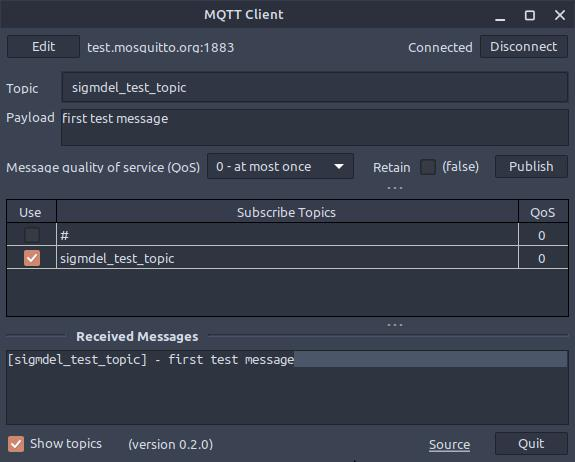
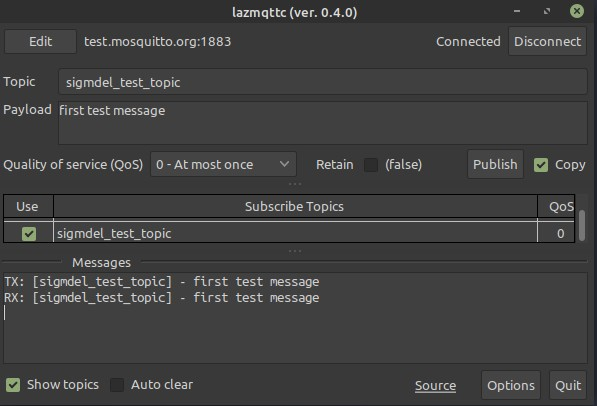
Bumped up to version 0.4.0

Changed region(s): [[0.0, 0.0, 1.0, 1.0]]

diff --git a/README.md b/README.md
@@ -1,4 +1,5 @@
 # lazmqttc: Lazarus MQTT Client
+**Version 0.4.0**
 
 A basic MQTT client written in Free Pascal/Lazarus that can publish messages to a broker while being subscribed to one or more topics with the same broker. It uses the [Eclipse mosquitto](https://mosquitto.org/) library to communicate with the MQTT broker.
 
@@ -14,12 +15,16 @@ The screen capture shows the message sent to the public `test.moquitto.org` brok
 - [2. Compiling](#2-compiling)
 - [3. Testing](#3-testing)
 - [4. Installation](#4-installation)
-- [5. Broker Definitions](#5-broker-definitions)
-    - [5.1. Security Warning](#51-security-warning)
-- [6. National Language Support](#6-national-language-support)
-- [7. Improvements and Development](#7-improvements-and-development)
-- [8. Acknowledgment](#8-acknowledgment)
-- [9. Licence](#9-licence)
+- [5. Program Options](#5-program-options)
+    - [5.1. Automatic Connection Options](#51-automatic-connection-options)
+    - [5.2. Messages Options](#52-messages-options)
+- [6. Option Overrides at Runtime](#6-option-overrides-at-runtime)
+- [7. Broker Definitions](#7-broker-definitions)
+    - [7.1. Security Warning](#71-security-warning)
+- [8. National Language Support](#8-national-language-support)
+- [9. Improvements and Development](#9-improvements-and-development)
+- [10. Acknowledgment](#10-acknowledgment)
+- [11. Licence](#11-licence)
 
 <!-- /TOC -->
 
@@ -80,7 +85,7 @@ Ultimately, if a mosquitto MQTT broker is to be run on the system, it may make m
 
 The repository is self-contained (except for the mosquitto library of course), so creating this tool should be straightforward. Clone the repository, start the Lazarus IDE, load the project, and compile. 
 
-The project uses a custom component, a "virtual grid" to display subscribed topics. This component is so specialized that there is no point in adding it to the IDE component palette. Instead the component is created at run-time in the `FormCreate` methods of the main and broker edit forms. Consequently, it is normal to not find the component in the form designer.
+The project uses a custom component, a "virtual grid" to display subscribed topics. This component is so specialized that there is no point in adding it to the IDE component palette. Instead the component is created at runtime in the `FormCreate` methods of the main and broker edit forms. Consequently, the component is not visible in the form designer.
 
 When compiling a final version, it would be advisable to heed the following advice.
 
@@ -92,9 +97,9 @@ When compiling a final version, it would be advisable to heed the following advi
 
 ## 3. Testing
 
-The project was built with Lazarus 2.0.12 (Free Pascall 3.2.0) on a Mint 20.1 system with version 1.6.9-1 of the mosquitto libraries. 
+The project was built with Lazarus 2.2.0RC2 (Free Pascal 3.2.3) on a Mint 20.1 system with version 1.6.9-1 of the mosquitto libraries. 
 
-A cursory test was done with the same compiler in Windows 10. 
+A cursory test was done with Lazarus 2.0.12 (Free Pascal 3.2.0) in Windows 10. 
 
 There are unit tests of the `TBroker` class, but they may be out of date.
 
@@ -106,61 +111,43 @@ The [installation](installation/) directory contains a `lazmqttc.desktop` file a
 
 Details about installation of an application in Windows 10 are unfortunately not provided.
 
-## 5. Broker Definitions 
+## 5. Program Options
+
+Starting with version 0.4.0, program options can be changed at runtime. Click on the `Options` button at the bottom right of the application window to enter the options editor.
+
+### 5.1. Automatic Connection Options
+
+If automatic connection is enabled, then an attempt will be made to open a connection to the MQTT broker if one is not already established when a message is published. When such an attempt is made, the program will wait for the specified number of seconds and then publish the message if the connection has been established. Even if the program reports that it was unable to establish a connection, it is still possible that the broker will respond later. 
+
+The public MQTT server at `mosquitto.org` may very well take more than the default 5 seconds to respond to an initial connection request. It was necessary to press the `Publish` button again once the connection was made to get the response shown in the screenshot at the top of this page.
+
+### 5.2. Messages Options
+
+If `Auto clear previous messages on publishing a message` is checked then the `Messages` control is cleared of old messages when a new message is published to the broker.
+
+It is possible to define the maximum number of messages that can be shown in the `Messages` control. Older messages are removed as new messages come in if necessary.
+
+If `Show published messages` is checked then published messages are added in the control no matter if the client is subscribed to these messages or not. In the screenshot the 
+
+If `Show message topics` is not checked then only message payloads are shown in the `Messages` control. When shown, topics are enclosed in square brackets [&lt;*topic*&gt;].
+
+The `Received message header` and `Published message header` are used to define prefixes that identify which messages are sent and which are received.
+
+## 6. Option Overrides at Runtime 
+
+Published messages are only shown in `Messages` if `Show` is checked no matter the value of `Show published messages` option. Changes to `Show` have no effect on the value of the option. When the program is started or when Options are changed then `Show` will be set to the same value as the  `Show published messages` option.
+
+`Show topics` and `Auto clear` operate in the same fashion in relation to the `Show message topics` and ` `Auto clear previous messages on publishing a message` options.
+
+
+## 7. Broker Definitions 
 
 MQTT broker definitions can be retrieved, saved, edited or created by clicking on the **` Edit `** button at the top of the main program window. Editing the current MQTT definition is the only way to add, remove or change the list of subscribed topics. 
 
-In Linux, broker definition files are saved in the `~/.config/sigmdel/lazmqttc` where `~` is the user home directory. So fully expanded the directory is
-<pre>  /home/&lt;<i>user</i>&gt;/.config/sigmdel/lazmqttc</pre>
-
-In Windows 10, the files are saved in the local `AppData` folder :
-<pre>  C:\Users\&lt;<i>user</i>&gt;\AppData\Local\sigmdel\lazmqttc</pre>
-
-MQTT broker definitions are JSON formatted text files. As an example, here is a definition used with an MQTT broker running on a Raspberry Pi also hosting a [Domoticz](https://domoticz.com/) home automation server. By default, the client will subscribe to the `stat/+/STATUS5` topic only when it connects with the broker. When the default publish message is sent to the broker, all subscribed [Tasmota](https://github.com/tasmota) devices respond by sending a "status 5" message. This can be useful because that will display the IP address of each device.
-
-<pre>
-{
-  "Host" : "192.168.1.22",
-  "Port" : 1883,
-  "User" : "",
-  "Password" : "",
-  "SSL" : false,
-  "SSLCert" : "",
-  "KeepAlives" : 60,
-  "ReconnectDelay" : 10,
-  "ReconnectBackoff" : true,
-  "AutoReconnect" : true,
-  "PubTopic" : "cmnd/tasmotas/status",
-  "PubPayload" : "5",
-  "PubQoS" : 0,
-  "PubRetain" : false,
-  "SubTopics" : [
-    {
-      "Topic" : "stat/+/STATUS5",
-      "QoS" : 0,
-      "Use" : true
-    },
-    {
-      "Topic" : "tele/#",
-      "QoS" : 0,
-      "Use" : false
-    },
-    {
-      "Topic" : "domoticz/in",
-      "QoS" : 0,
-      "Use" : false
-    },
-    {
-      "Topic" : "domoticz/out",
-      "QoS" : 0,
-      "Use" : false
-    }
-  ]
-}   
-</pre>       
+MQTT broker definitions are JSON formatted text files. The [res](res/) directory contains examples of broker definition files.
 
 
-### 5.1. Security Warning
+### 7.1. Security Warning
 
 Prior to version 3.3, the MQTT broker passwords were stored in plain text in the broker definitions file. **Do not save MQTT broker passwords in the broker definition screen** in these older versions. 
 
@@ -168,7 +155,7 @@ A quick fix was added in version 3.3 so that an encrypted password will be saved
 
 Note that the MQTT user and password are transmitted in plain text over an HTTP connection, so truly secure handling of the MQTT password will have to wait until communication with the broker using the HTTPS protocol is implemented.
 
-## 6. National Language Support
+## 8. National Language Support
 
 The `languages` directory contains national language translations of the literal strings found in the program. This directory should be copied alongside the executable file.
 
@@ -176,29 +163,13 @@ Only a single translation into French is provided: `lazmqttc.fr.po`. However the
 
 The choice of language is done automatically based on the system locale when the program starts up. There is no provision for choosing the language at run-time. Those that prefer to use the English language version even if a translation into the national language exists can achieve their goal by renaming or erasing the `languages` directory.
 
-## 7. Improvements and Development
+## 9. Improvements and Development
 
 Initially this utility was quickly cobbled to fulfill an immediate need: wrangling a number of IoT devices running Tasmota firmware mostly to get their IP address. Since then, an attempt has been made to combine the important features of the mosquitto "pub and sub clients" into a single application. At the same time, some attention has been given to cleaning up the code, but improvements are certainly possible. All suggestions welcome.
 
 There are aspects of the MQTT protocol that are not implemented including the Last Will and Testament feature and clean sessions.
 
-Version 0.3.4 brings two changes:
-  1. If the client is not connected to the MQTT broker when the ```Publish``` button is pressed, then it will attempt to connect. 
-  2. Published messages can now be added to list of ```Messages``` window which now looks more like a "chat". The published messages have a "TX: " prefix, received messages have a "RX: " prefix. This behaviour is controlled by a ```Copy``` checkbox beside the ```Publish``` button.
-
-Connection to a broker is asynchronous. If an attempt to connect to a broker is made after pushing on the publish button, then the application will wait at most 5 seconds for the connection. The automation connection, the connection delay, as well as the message prefixes are  currently defined as constants at the start of the implementation of ```main.pas```.
-
-```  
-// Move these to application options
-  SubscribedMemoSize = 2500;    // maximum number of lines in subscribed memo
-  AutoConnectOnPublish = true;  // connect to broker if needed when Publish is pressed
-  AutoConnectDelay = 5000;      // five seconds
-  PubMsgHeader = 'TX: ';        // start of published messages in Messages box
-  RcvMsgHeader = 'RX: ';        // start of received messages in Messages box           
-```  
-The next improvement should be to add these options to an application configuration file and to add a form to edit them.
-
-## 8. Acknowledgment
+## 10. Acknowledgment
 
 Obviously, this utility would not have been possible without 
 
@@ -206,11 +177,11 @@ Obviously, this utility would not have been possible without
 - the [Eclipse Mosquitto](https://github.com/eclipse/mosquitto) project and 
 - the [mosquitto-p](https://github.com/chainq/mosquitto-p) project by Károly Balogh (chainq).
 
-Not quite as obvious, the JSON data viewer by Michael Van Canneyt (named `jsonviewer`) provided the code for saving and loading JSON broker definition files. The utility can be found in the `tools` directory in the Lazarus source. The full path is `/usr/share/lazarus/2.0.12/tools/jsonviewer` in a default installation of Lazarus in Mint 20.1.
+Not quite as obvious, the JSON data viewer by Michael Van Canneyt (named `jsonviewer`) provided the code for saving and loading the JSON broker definition and the JSON program option files. The utility can be found in the `tools` directory in the Lazarus source. The full path is `/usr/share/lazarus/2.0.12/tools/jsonviewer` in a default installation of Lazarus in Mint 20.1.
 
 The broker password encryption using the <span class="tm">Free Pascal</span> Blowfish unit is based on a blog post by leledumbo [Blowfish, the cryptography unit by leledumbo](http://pascalgeek.blogspot.com/2012/06/encryption-decryption-and-asynchronous.html) (June 24, 2012).
 
-## 9. Licence
+## 11. Licence
 
 The [Eclipse Mosquitto](https://github.com/eclipse/mosquitto) project is dual-licensed under the Eclipse Public License 2.0 and the
 Eclipse Distribution License 1.0.

diff --git a/CHANGELOG.md b/CHANGELOG.md
@@ -1,14 +1,21 @@
 
 # Change Log
 
-## 0.3.4 (current)
+## 0.4.0 (current)
+
+- Bumped up to version 0.4.0
+- New screen shot 
+- Added resource directory
+- Added application options and option edit form
+
+
+## 0.3.4 (0fd1b4f)
 
 - Bumped up to version 0.3.4
 - Updated translations
 - If needed, automatically connects to a broker when the Publish button is pressed
 - Published topic can optionaly be added to the Messages window 
 - Added a temporary work directory in .hgignore
-
 
 
 ## 0.3.3 (94e0e89)
